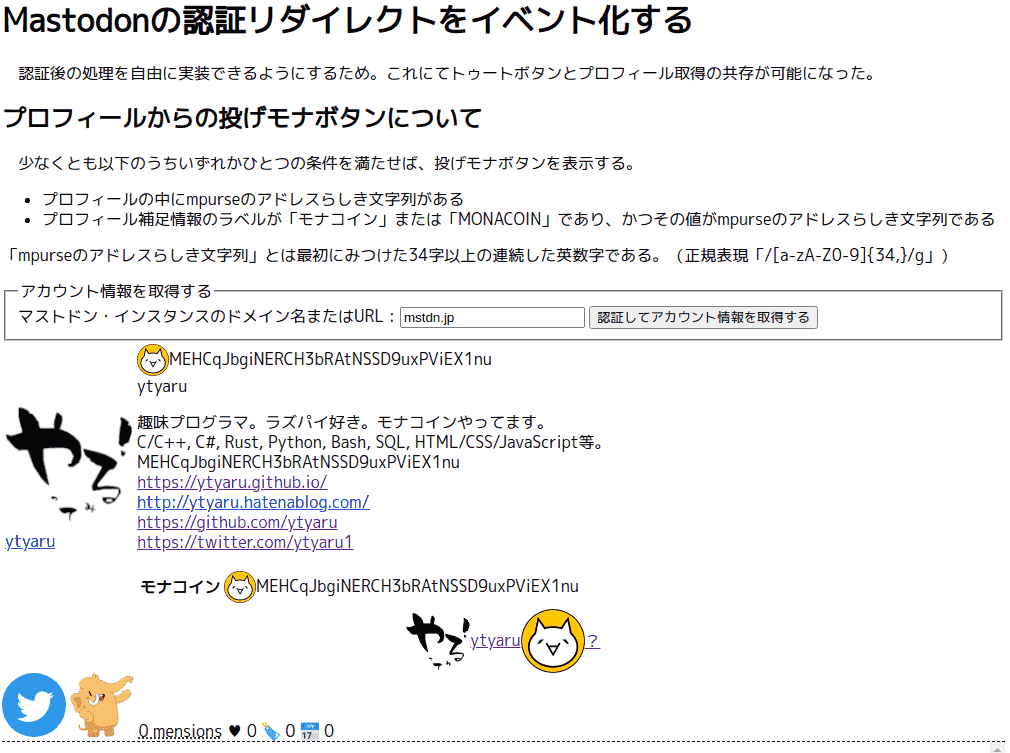
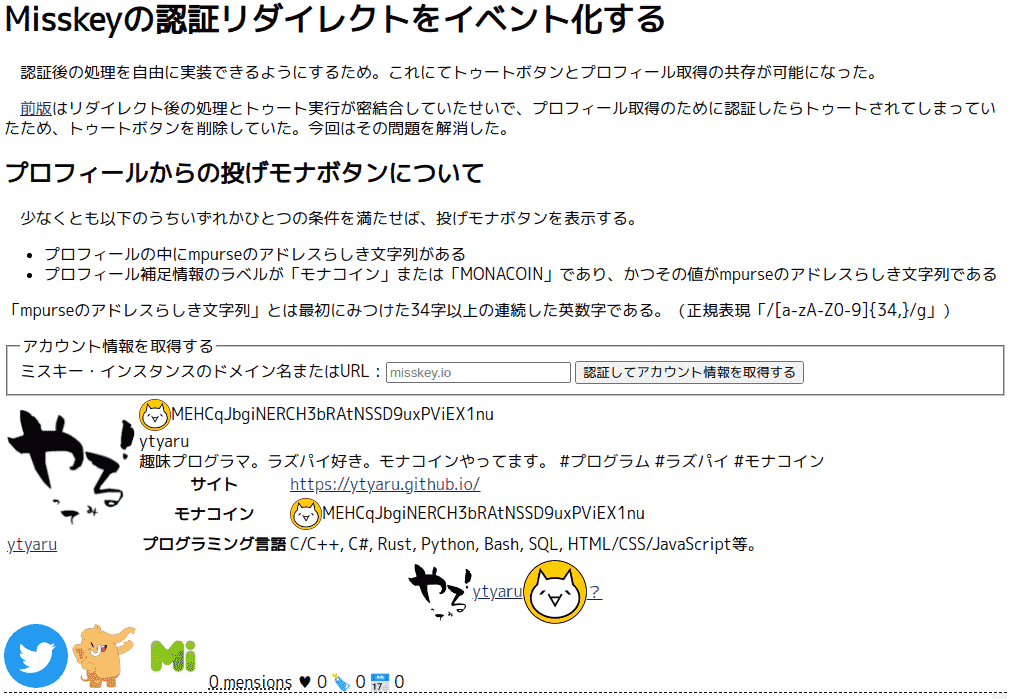
アイキャッチ画像とメタデータ更新。

diff --git a/docs/index.html b/docs/index.html
@@ -15,7 +15,7 @@
 <meta property="og:title" content="Misskeyの認証リダイレクトをイベント化する" />
 <meta property="og:description" content="認証後の処理を自由に実装できるようにするため。" />
 <meta property="og:image" content="https://ytyaru.github.io/Html.Misskey.RedirectCallback.Event.20220612182913/asset/image/eye-catch.png" />
-<meta property="article:published_time" content="2022-06-12T18:30:00+09:00" />
+<meta property="article:published_time" content="2022-06-13T12:50:00+09:00" />
 <meta property="article:author" content="https://ytyaru.github.io/" />
 <meta name="twitter:card" content="summary_large_image" />
 <script type="application/ld+json">
@@ -35,10 +35,14 @@
         "https://www.pixiv.net/users/53831310",
         "https://monaledge.com/user/MEHCqJbgiNERCH3bRAtNSSD9uxPViEX1nu",
         "https://web3.askmona.org/user/1590",
+        "https://misskey.io/@ytyaru",
+        "https://misskey.dev/@ytyaru",
+        "https://sushi.ski/@ytyaru",
+        "https://meisskey.one/@ytyaru",
       ]
     },
-    "dateModified": "2022-06-12T18:30:00+09:00",
-    "datePublished": "2022-06-12T18:30:00+09:00",
+    "dateModified": "2022-06-13T12:50:00+09:00",
+    "datePublished": "2022-06-13T12:50:00+09:00",
     "headline": "Misskeyの認証リダイレクトをイベント化する",
     "image": ["https://ytyaru.github.io/Html.Misskey.RedirectCallback.Event.20220612182913/asset/image/eye-catch.png"]
   }
@@ -56,6 +60,10 @@
 <link rel="me" href="https://www.pixiv.net/users/53831310">
 <link rel="me" href="https://monaledge.com/user/MEHCqJbgiNERCH3bRAtNSSD9uxPViEX1nu">
 <link rel="me" href="https://web3.askmona.org/user/1590">
+<link rel="me" href="https://misskey.io/@ytyaru">
+<link rel="me" href="https://misskey.dev/@ytyaru">
+<link rel="me" href="https://sushi.ski/@ytyaru">
+<link rel="me" href="https://meisskey.one/@ytyaru">
 
 <script src="https://unpkg.com/@popperjs/core@2"></script>
 <script src="https://unpkg.com/tippy.js@6"></script>
